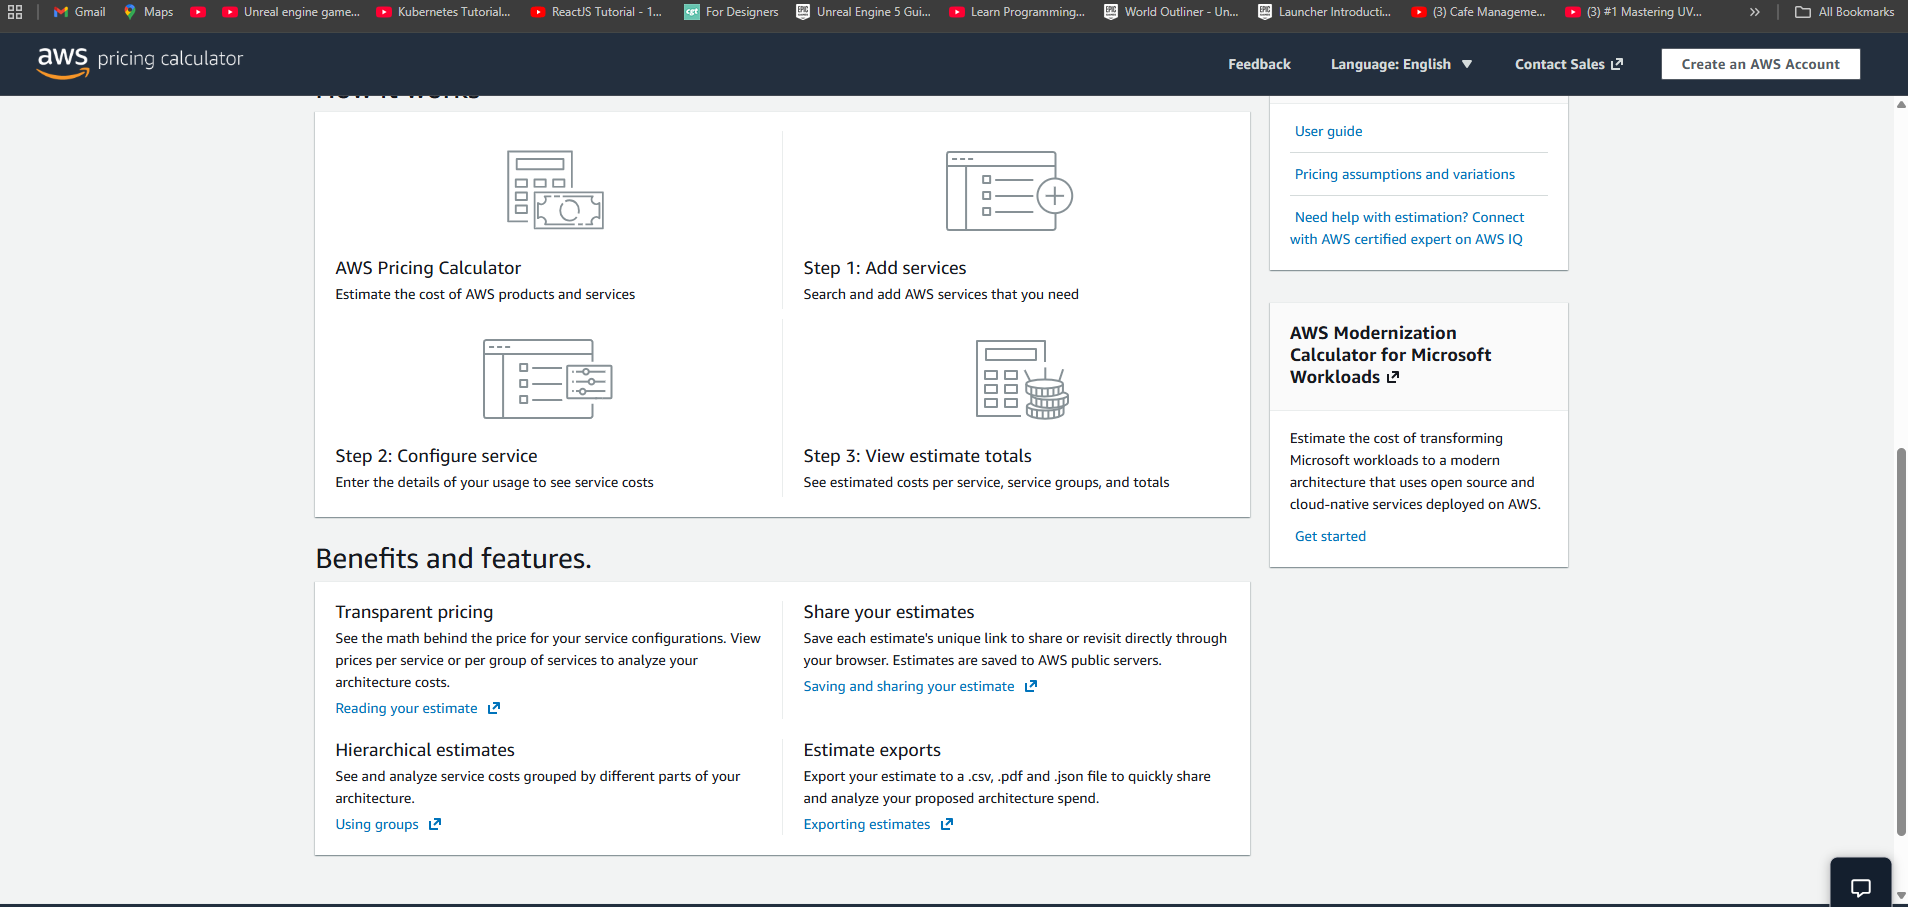
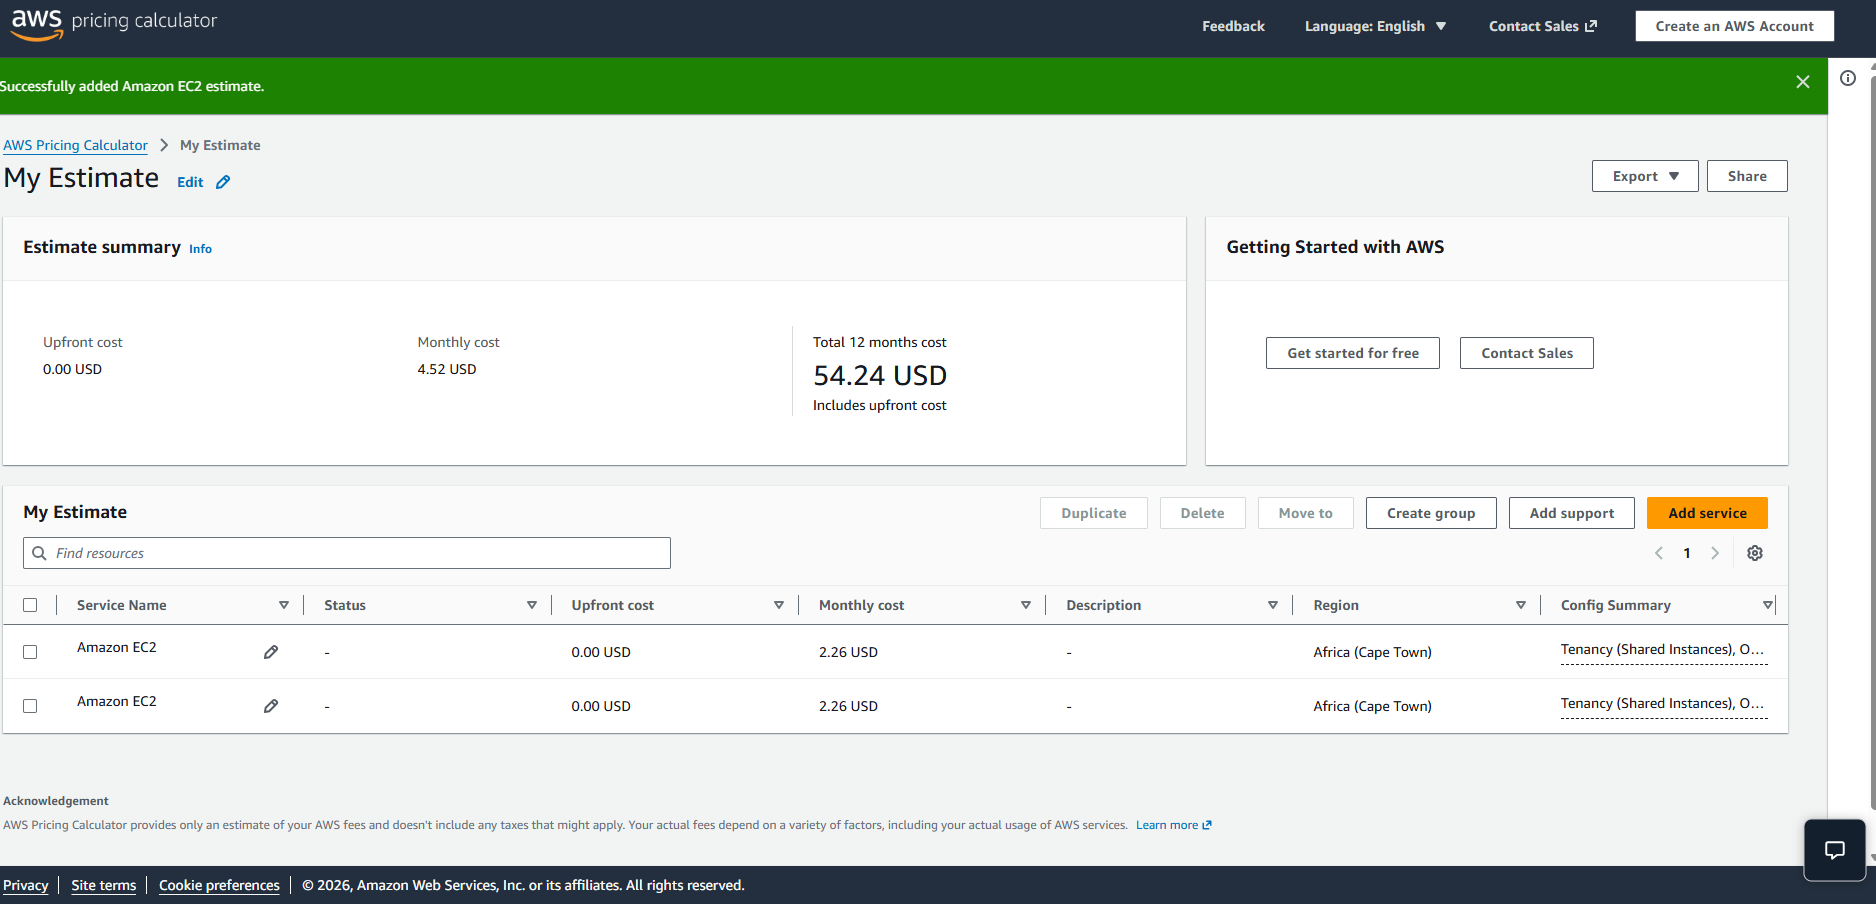
cost analysis

diff --git a/comparison-report.md b/comparison-report.md
@@ -1,5 +1,18 @@
 # AWS vs Azure Cost Comparison Report
 
+## Annual Cost Comparison
+
+| Provider | Monthly Cost | Annual Cost |
+|----------|-------------|-------------|
+| AWS | $31.50 | $378.00 |
+| Azure | $39.50 | $474.00 |
+
+## Cost Difference
+
+AWS is approximately **20.2% cheaper** than Azure for this workload.
+
+Calculation:
+((39.50 - 31.50) / 39.50) × 100 = 20.2%
 ## 1. Objective
 This report compares the monthly cost of hosting a small web application on AWS and Azure using equivalent infrastructure.
 

diff --git a/readme.md b/readme.md
@@ -1,0 +1,6 @@
+## Annual Cost Summary
+AWS: $378/year  
+Azure: $474/year  
+
+## Percentage Difference
+AWS is 20.2% cheaper than Azure